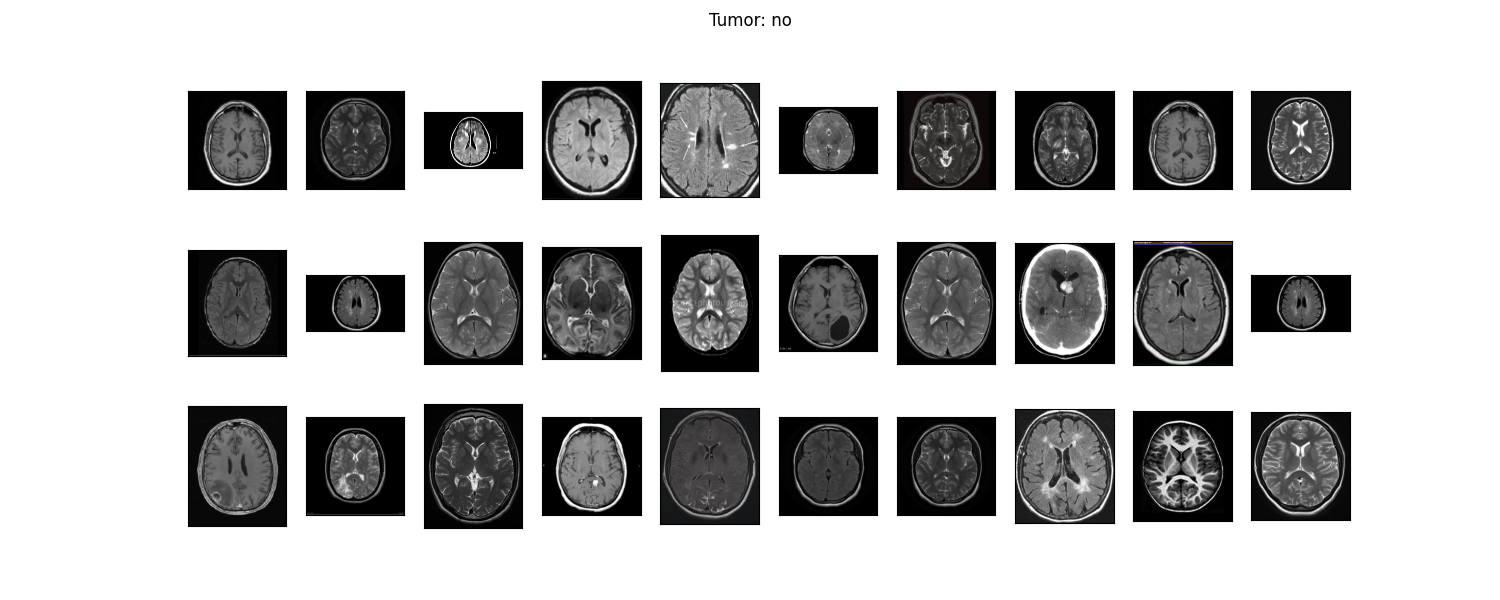
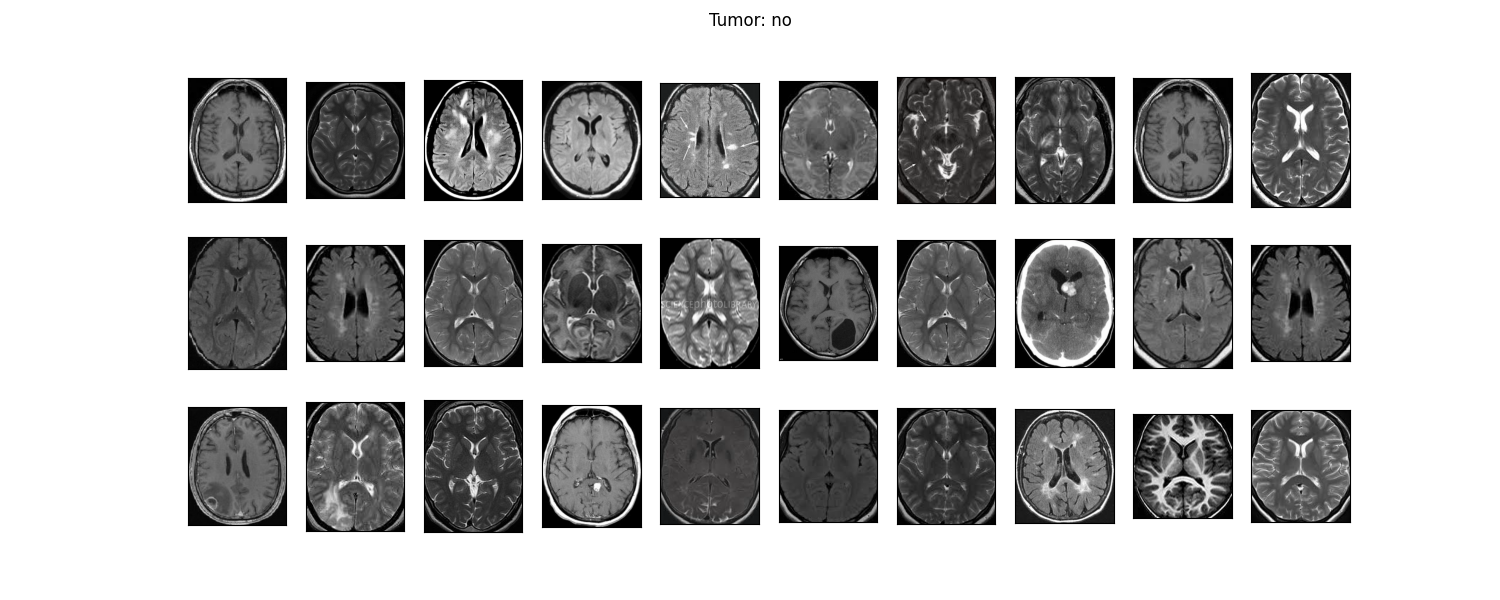
update: save_crop_img function

diff --git a/src/classification/vgg16_model/classification.py b/src/classification/vgg16_model/classification.py
@@ -85,8 +85,8 @@ def load_data(dir_path, img_size=(100, 100)):
                 y.append(i)
         i += 1
 
-    X = np.array(X, dtype=object)
-    y = np.array(y, dtype=object)
+    X = np.array(X)
+    y = np.array(y)
     logging.info("%s images loaded from %s directory.", len(X), dir_path)
 
     return X, y, labels
@@ -118,9 +118,9 @@ def plot_samples(X, y, lables_dict, n=50):
 
         plt.suptitle('Tumor: {}'.format(lables_dict[index]))
         plt.savefig(
-            'src/classification/plot_{}.png'.format(lables_dict[index]))
+            'src/classification/vgg16_model/plot_{}.png'.format(lables_dict[index]))
 
-def crop_imgs(set_name, add_pixels_valu=0):
+def crop_imgs(set_name, add_pixels_value=0):
     """Crop images to precise with input of vgg16, remove black coners.
     """
     set_new = list()
@@ -128,7 +128,45 @@ def crop_imgs(set_name, add_pixels_valu=0):
         gray = cv2.cvtColor(img, cv2.COLOR_RGB2GRAY)
         gray = cv2.GaussianBlur(gray, (5, 5), 0)
 
-        #
+        #Remove any small region of noise
+        thresh = cv2.threshold(gray, 45, 255,cv2.THRESH_BINARY)[1]
+        thresh = cv2.erode(thresh, None, iterations=2)
+        thresh = cv2.dilate(thresh, None, iterations=2)
+
+        #Find contours
+        cnts = cv2.findContours(
+            thresh.copy(), cv2.RETR_EXTERNAL, cv2.CHAIN_APPROX_SIMPLE)
+        cnts = imutils.grab_contours(cnts)
+        c = max(cnts, key=cv2.contourArea)
+
+        #Find the extreme points
+        ext_left = tuple(c[c[:, :, 0].argmin()][0])
+        ext_right = tuple(c[c[:, :, 0].argmax()][0])
+        ext_top = tuple(c[c[:, :, 1].argmin()][0])
+        ext_bot = tuple(c[c[:, :, 1].argmax()][0])
+
+        add_pixels = add_pixels_value
+        new_img = img[ext_top[1] - add_pixels:ext_bot[1] + add_pixels,
+                      ext_left[0] - add_pixels:ext_right[0] + add_pixels].copy()
+        set_new.append(new_img)
+
+    return np.array(set_new)
+
+def save_crop_images(x_set, y_set, file_dir):
+    """Save crop images.
+    """
+    if not os.path.exists(file_dir):
+            os.makedirs(file_dir + 'yes')
+            os.makedirs(file_dir + 'no')
+
+    i = 0
+    for (img, img_class) in zip(x_set, y_set):
+        if img_class == 0:
+            cv2.imwrite(file_dir + 'no/' + str(i) + '.jpg', img)
+        else:
+            cv2.imwrite(file_dir + 'yes/' + str(i) + '.jpg', img)
+        i += 1
+
 def main():
     """Main program
     """
@@ -155,7 +193,28 @@ def main():
     )
 
     # Plot image samples
-    plot_samples(X_train, y_train, labels, 30)
+    # plot_samples(X_train, y_train, labels, 30)
+
+    # Crop images
+    X_train_crop = crop_imgs(set_name=X_train)
+    X_test_crop = crop_imgs(set_name=X_test)
+    X_val_crop = crop_imgs(set_name=X_val)
+
+    plot_samples(X_train_crop, y_train, labels, 30)
+
+    # Save croped images
+    save_crop_images(
+        X_train_crop,
+        y_train,
+        config['classification']['vgg16']['train_dir_crop'])
+    save_crop_images(
+        X_test_crop,
+        y_test,
+        config['classification']['vgg16']['test_dir_crop'])
+    save_crop_images(
+        X_val_crop,
+        y_val,
+        config['classification']['vgg16']['val_dir_crop'])
 
     logging.info("Program was terminated!")
 
